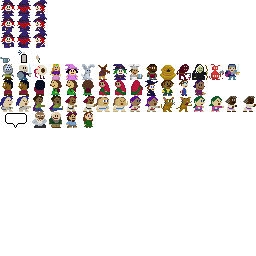
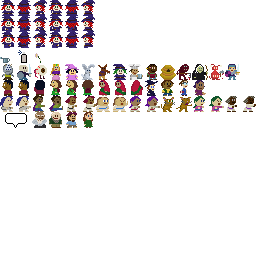
new hero tiles when carrying

Changed region(s): [[0.1875, 0.0, 0.375, 0.1875], [0.125, 0.2188, 0.1562, 0.25]]

diff --git a/src/game/sprite/types/sprite_hero.c b/src/game/sprite/types/sprite_hero.c
@@ -399,6 +399,7 @@ static void _hero_render(struct sprite *sprite,int16_t addx,int16_t addy) {
   if (carry&&(SPRITE->facedir==DIR_N)) graf_draw_tile(&g.graf,texid,dstx+4,dsty,carry,EGG_XFORM_XREV);
   
   // Main tile.
+  if (carry) tileid+=3;
   graf_draw_tile(&g.graf,texid,dstx,dsty,tileid,xform);
   
   // Watercan in any non-north direction draws after.

diff --git a/src/game/main.c b/src/game/main.c
@@ -166,7 +166,7 @@ void save_game() {
   int savec=saved_game_encode(save,sizeof(save),&g.stats);
   if ((savec>=0)&&(savec<=sizeof(save))) {
     if (egg_store_set("save",4,save,savec)>=0) {
-      //fprintf(stderr,"Saved game.\n");
+      TRACE("%.*s",savec,save)
     }
   }
 }

diff --git a/README.md b/README.md
@@ -28,7 +28,7 @@ Gives us about 57k words in a 400 kB resource.
 - [ ] 2p: Choose an avatar and background.
 - [ ] Editor seems to think that '#' starts a line comment in strings. Pretty sure it's not supposed to.
 - [ ] Egg editor image viewer: Lopping top and bottom off images with aspect taller than view.
-- [ ] Different tiles for Dot when carrying something.
+- [x] Different tiles for Dot when carrying something.
 
 ## Dictionary Notes
 
